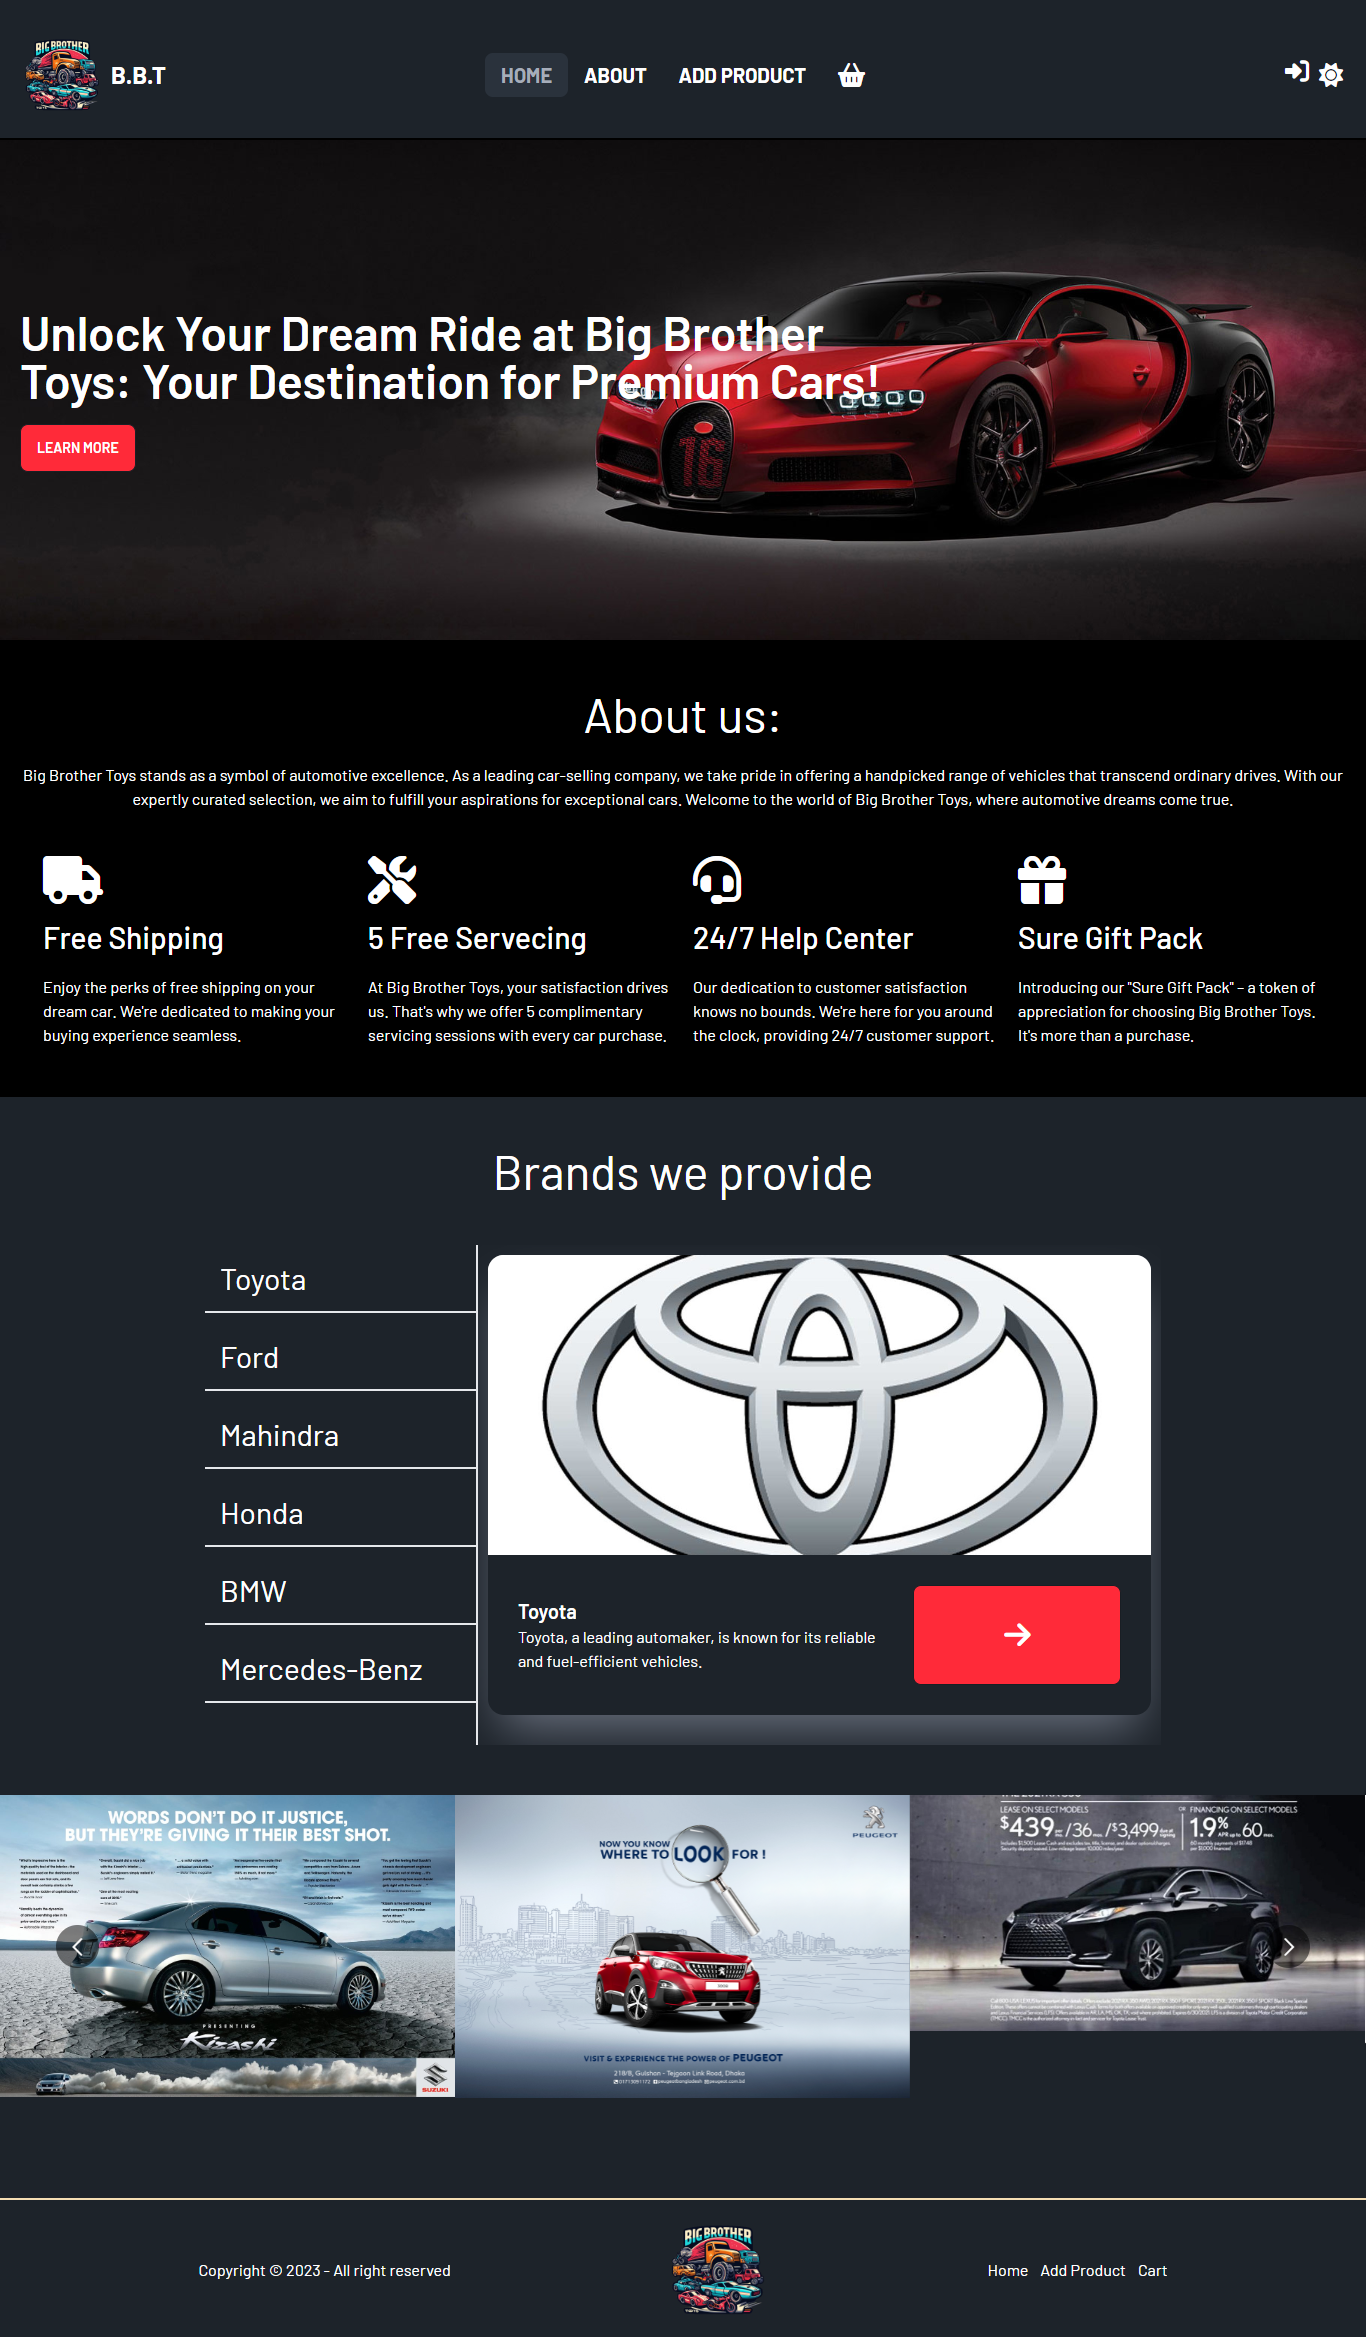
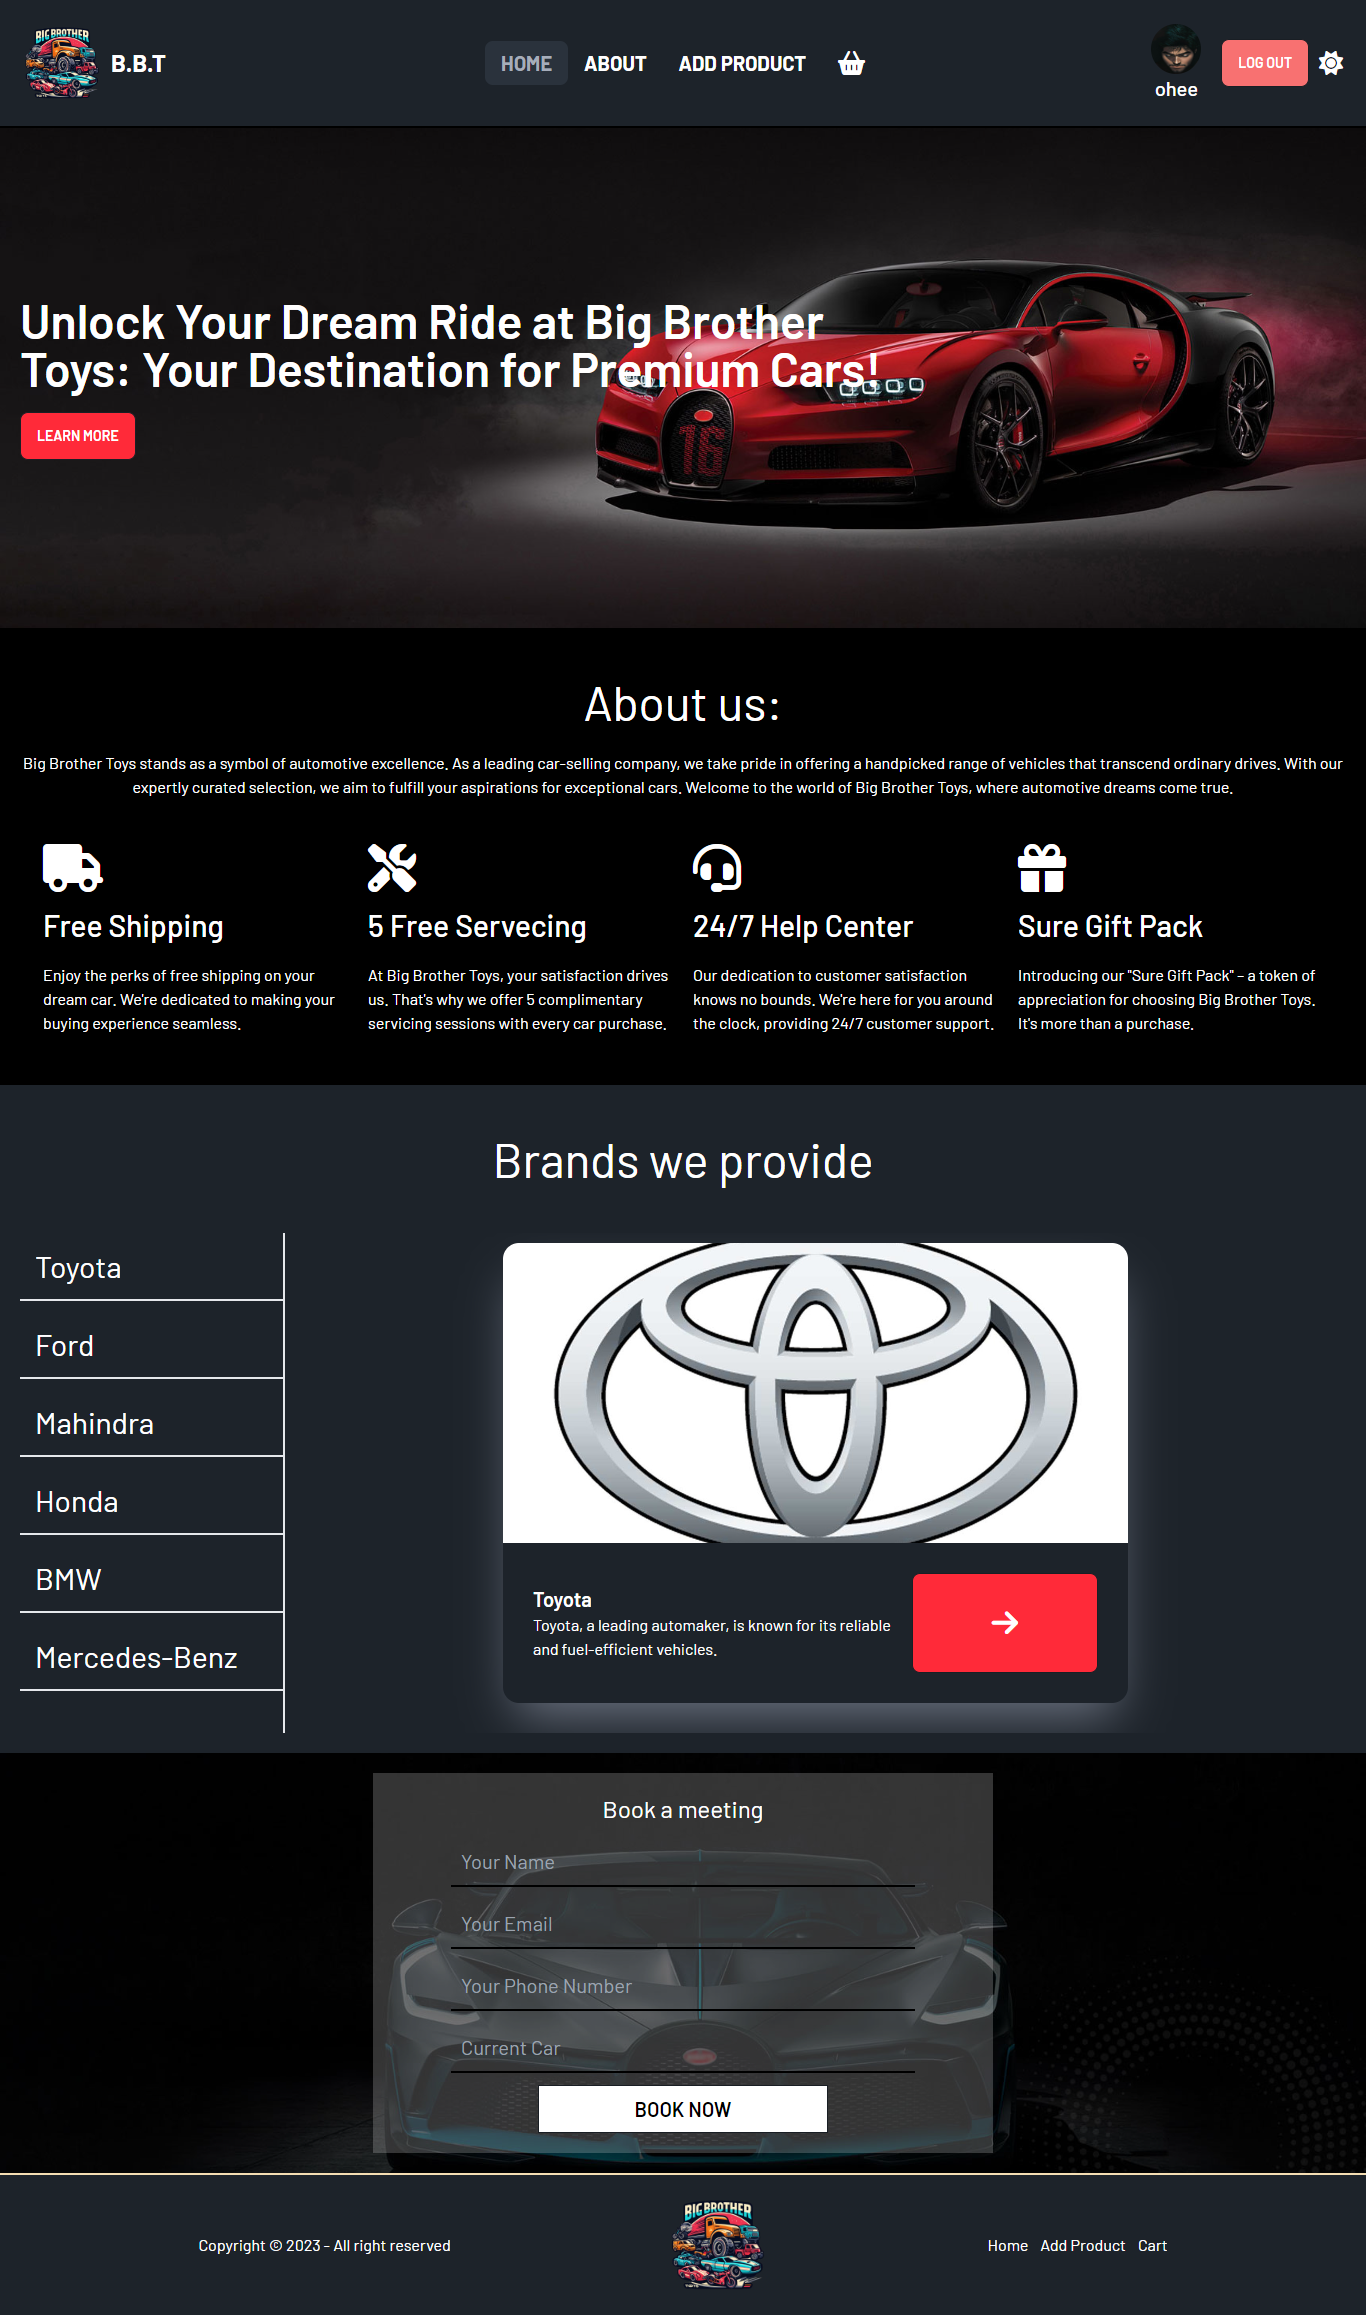
Fixed some ui releted issoues

diff --git a/src/Pages/Home/Home.jsx b/src/Pages/Home/Home.jsx
@@ -1,13 +1,36 @@
 import React, { useContext } from 'react'
 import Banner from '../../Components/Banner/Banner'
 import HomeProducts from '../../Components/HomeProducts/HomeProducts'
-import SliderAdvertisement from '../../Components/SliderAdvertisement/SliderAdvertisement'
 import { AuthContent } from '../AuthProvider/AuthProvider'
+import "./Home.css"
+import Swal from 'sweetalert2'
 
 const Home = () => {
   const {data, mode} = useContext(AuthContent)
 
-  console.log(data);
+  const formSubmit = e =>{
+    e.preventDefault()
+    const name = e.target.name.value
+    const email = e.target.email.value
+    const phone = e.target.phone.value
+    const car = e.target.car.value
+    if(name =="" || email ==""|| phone=="" || car == ""){
+      Swal.fire({
+        title:"fill all the data required",
+        icon:"error"
+      })
+    }
+    else{
+      Swal.fire({
+        title:"Request send successfully",
+        icon:"success"
+      })
+      e.target.name.value=""
+      e.target.email.value =""
+      e.target.phone.value =""
+      e.target.car.value=""
+    }
+  }
   return (
     <div className={'${mode}'}>
       <Banner/>
@@ -42,7 +65,20 @@ const Home = () => {
         </div>
       </div>
       <HomeProducts/>
-      <SliderAdvertisement/>
+      <div className='contactSection flex justify-center'>
+        <div className="container mx-auto p-[20px] justify-center flex flex-col md:flex-row text-black">
+          <div className='whiteDim p-[20px] w-full md:w-1/2'>
+            <form onSubmit={formSubmit} className='homeForm flex flex-col items-center w-full gap-3'>
+              <h1 className='text-2xl text-center text-white'>Book a meeting</h1>
+              <input className='.homeForm bg-transparent border-b-2 border-black p-[10px] text-xl outline-none w-[80%]' type="text" name="name" placeholder='Your Name' id="" />
+              <input className='bg-transparent border-b-2 border-black p-[10px] text-xl outline-none w-[80%]' type="text" name="email" placeholder='Your Email' id="" />
+              <input className='bg-transparent border-b-2 border-black p-[10px] text-xl outline-none w-[80%]' type="number" name="phone" placeholder='Your Phone Number' id="" />
+              <input className='bg-transparent border-b-2 border-black p-[10px] text-xl outline-none w-[80%]' type="text" name="car" placeholder='Current Car' id="" />
+              <button className='btn bg-white hover:bg-white text-xl rounded-none md:w-1/2 text-black'>Book now</button>
+            </form>
+          </div>
+        </div>
+      </div>
     </div>
   )
 }

diff --git a/src/Components/HomeProducts/HomeProducts.jsx b/src/Components/HomeProducts/HomeProducts.jsx
@@ -9,20 +9,20 @@ const HomeProducts = () => {
     const brandData = useLoaderData()
     const {mode} = useContext(AuthContent)
   return (
-    <div className={`products %{mode}`}>
+    <div className={`products ${mode}`}>
       <h1 className="text-center text-3xl md:text-5xl mt-[50px] mb-[50px]">Brands we provide</h1>
-        <div className="flex container flex-col md:flex-row md:w-[70%] mx-auto mb-[50px]">
-        <div className="flex md:w-[30%]  md:border-r-2  flex-col gap-[10px] text-3xl brandNames">
+        <div className="flex  flex-col justify-between md:flex-row  md:m-[20px] mb-[50px]">
+        <div className="flex md:w-[25%]  md:border-r-2  flex-col gap-[10px] text-3xl brandNames">
           {
             brandData.map(brand=> 
             <a className="border-b-2 p-[15px] " key={brand.id} href={`#${brand.id}`}>{brand.name}</a>
             )
           }
         </div>
-        <div className="brandCards md:w-[75%] h-[500px] overflow-y-scroll scroll-m-5 p-[10px] gap-5">
+        <div className="brandCards flex flex-col  items-center container mx-auto h-[500px] overflow-y-scroll scroll-m-5 p-[10px] gap-5">
         {
             brandData.map(brand => 
-            <div key={brand.id} id={brand.id} className="card bg-base-100 shadow-2xl shadow-gray-500 mb-[50px]">
+            <div key={brand.id} id={brand.id} className="card w-full md:w-[60%] bg-base-100 shadow-2xl shadow-gray-500 mb-[50px]">
             <figure className="h-[300px] bg-white" ><img src={brand.image} alt={brand.name}/></figure>
             <div className="text-white p-[30px] flex gap-5 items-center">
                 <div>

diff --git a/src/Components/Navbar/Navbar.jsx b/src/Components/Navbar/Navbar.jsx
@@ -41,7 +41,7 @@ const Navbar = () => {
     <button onClick={ModeSwap} className='flex md:hidden text-2xl'><i className={modeIcon}></i></button>
     </div>
   return (
-    <div className={`p-[5px] md:p-[15px] mt-3 border-b-2 border-black`}>
+    <div className={`p-[5px] md:p-[15px]  border-b-2 border-b-black`}>
       <div className="navbar">
   <div className="flex justify-between w-full md:navbar-start">
   <Link to="/">

diff --git a/src/App.jsx b/src/App.jsx
@@ -6,12 +6,8 @@ import "../src/Theme.css"
 import { AuthContent } from './Pages/AuthProvider/AuthProvider'
 
 function App() {
-  const [count, setCount] = useState(0)
   const {mode} = useContext(AuthContent)
-  const lacation = useLocation()
-  useEffect(()=>{
-    window.scrollTo(0,0)
-  },[lacation])
+  
 
   return (
     <div className={`${mode} bbtMai`}>

diff --git a/src/Components/ProductCard/ProductCard.jsx b/src/Components/ProductCard/ProductCard.jsx
@@ -10,7 +10,7 @@ const ProductCard = ({car}) => {
   }
   return (
     <div className='m-[20px] md:m-[0px]'>
-      <div className="hidden md:flex card card-side bg-black shadow-xl">
+      <div className="hidden md:flex card card-side text-white bg-black shadow-xl">
   <figure className='w-[100%] md:w-1/2 ' 
   style={
     {backgroundImage:`url(${Image})`, 

diff --git a/src/Pages/Home/Home.css b/src/Pages/Home/Home.css
@@ -1,0 +1,13 @@
+.contactSection{
+    background-image: url(../../assets/img/c-directly-bg.jpg);
+    background-position: right;
+    background-size: cover;
+    background-repeat: no-repeat;
+}
+
+.whiteDim{
+    background-color: rgb(255, 255, 255, 0.2);
+}
+-webkit-::placeholder{
+    color: black;
+}
